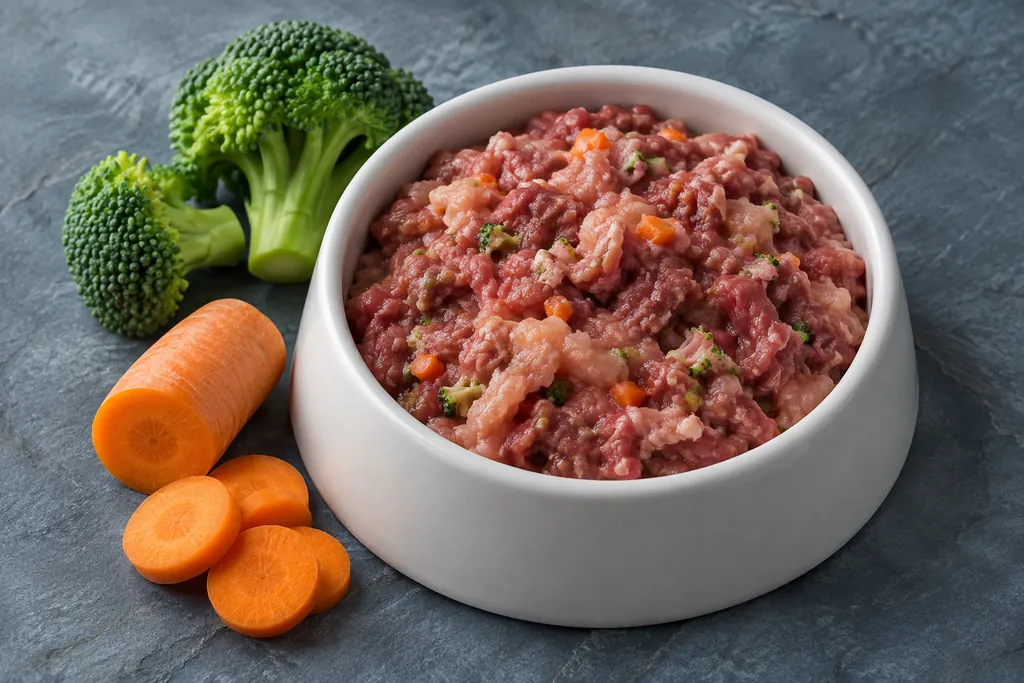
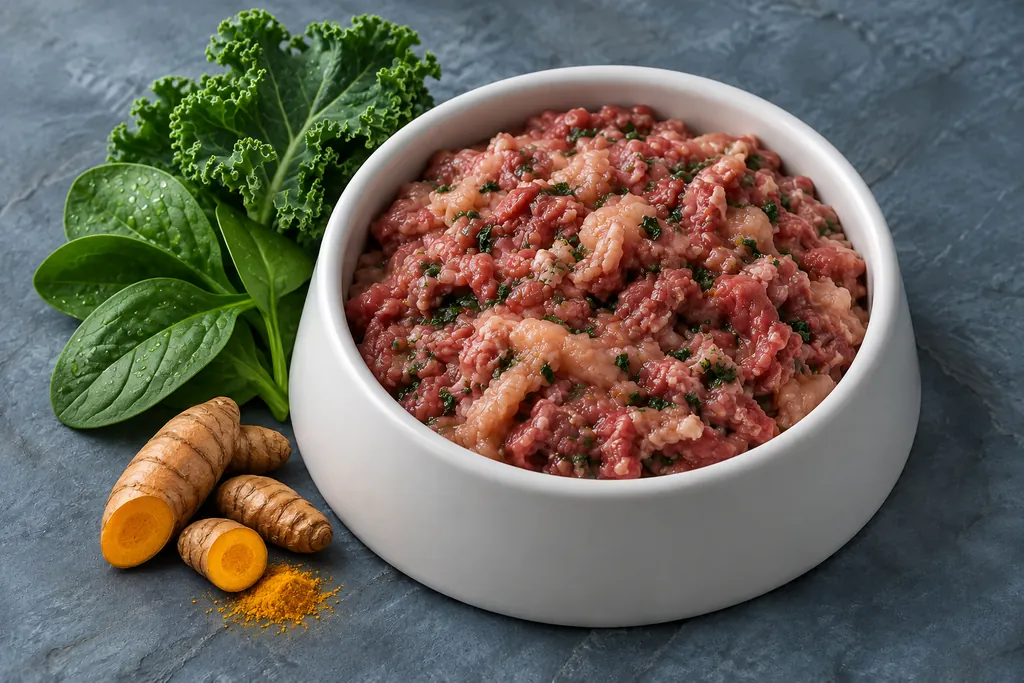
update image asset for mezclas

diff --git a/features/catalog/components/best-selling-snacks.tsx b/features/catalog/components/best-selling-snacks.tsx
@@ -14,7 +14,7 @@ export async function BestSellingSnacks() {
   } catch {
     return (
       <div className={styles.message} role="alert">
-        <h2>Variedad de treats</h2>
+        <h2>Treats populares</h2>
         <p>No pudimos cargar los productos en este momento.</p>
         <FeaturedSnacksRetry />
       </div>
@@ -24,7 +24,7 @@ export async function BestSellingSnacks() {
   return (
     <div className={styles.content}>
       <div className={styles.intro}>
-        <h2>Variedad de treats</h2>
+        <h2>Treats populares</h2>
       </div>
       {snacks.length ? (
         <ul className={styles.grid}>

diff --git a/app/page.tsx b/app/page.tsx
@@ -34,14 +34,14 @@ export default function Home() {
         >
           <PetExperience />
         </ExperienceSection>
-        <ExperienceSection id="explorar" label="Variedad de treats" showEyebrow={false}>
+        <ExperienceSection id="explorar" label="Treats populares" showEyebrow={false}>
           <Suspense fallback={<BestSellingSnacksLoading />}>
             <BestSellingSnacks />
           </Suspense>
         </ExperienceSection>
         <CategoryGallery />
-        <Contact />
         <PartnershipsPreview />
+        <Contact />
       </main>
       <Footer />
     </>

diff --git a/features/catalog/components/best-selling-snacks-loading.tsx b/features/catalog/components/best-selling-snacks-loading.tsx
@@ -6,7 +6,7 @@ export function BestSellingSnacksLoading() {
     <div className={styles.content} aria-busy="true">
       <p className="sr-only" role="status">Cargando deshidratados…</p>
       <div className={styles.intro}>
-        <h2>Variedad de treats</h2>
+        <h2>Treats populares</h2>
       </div>
       <ul className={styles.grid} aria-hidden="true">
         {Array.from({ length: 4 }, (_, index) => <CatalogProductSkeleton key={index} />)}

diff --git a/features/contact/components/contact.module.css b/features/contact/components/contact.module.css
@@ -1,7 +1,6 @@
 .contact {
   padding: var(--dn-space-12) var(--dn-page-gutter);
   scroll-margin-block-start: var(--dn-header-height);
-  border-block-start: 1px solid var(--dn-border-default);
   background: var(--dn-surface-cool);
 }
 

diff --git a/features/experience/components/experience-section.module.css b/features/experience/components/experience-section.module.css
@@ -18,6 +18,7 @@
 }
 
 .section[id="explorar"] {
+  border-block-start: 0;
   background: var(--dn-surface-cool);
 }
 
